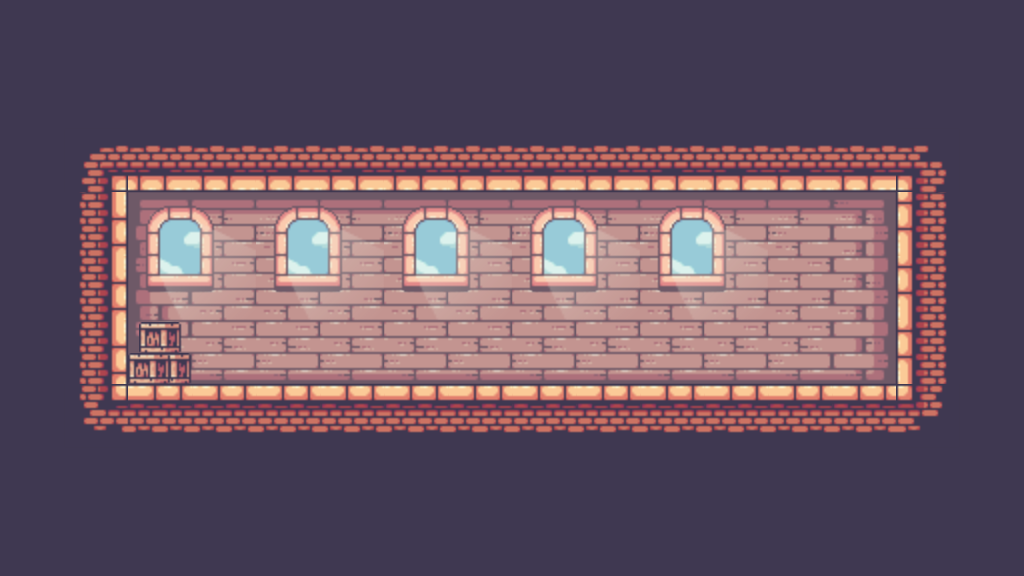
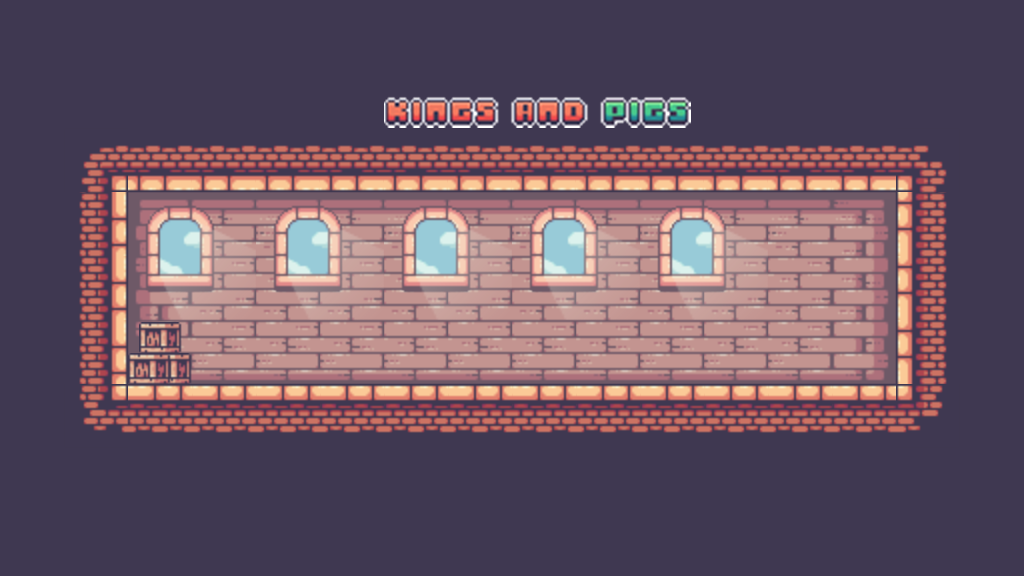
deploy

Changed region(s): [[0.375, 0.1562, 0.6875, 0.2188]]

diff --git a/index.html b/index.html
@@ -9,7 +9,7 @@
   <link rel="preconnect" href="https://fonts.gstatic.com" crossorigin />
   <link href="https://fonts.googleapis.com/css2?family=Press+Start+2P&display=swap" rel="stylesheet" />
   <title>Multy-room platformer</title>
-  <script type="module" crossorigin src="./assets/index-BwTqlwc8.js"></script>
+  <script type="module" crossorigin src="./assets/index-D67aV8Gy.js"></script>
   <link rel="stylesheet" crossorigin href="./assets/index-DDYe05sS.css">
 </head>
 